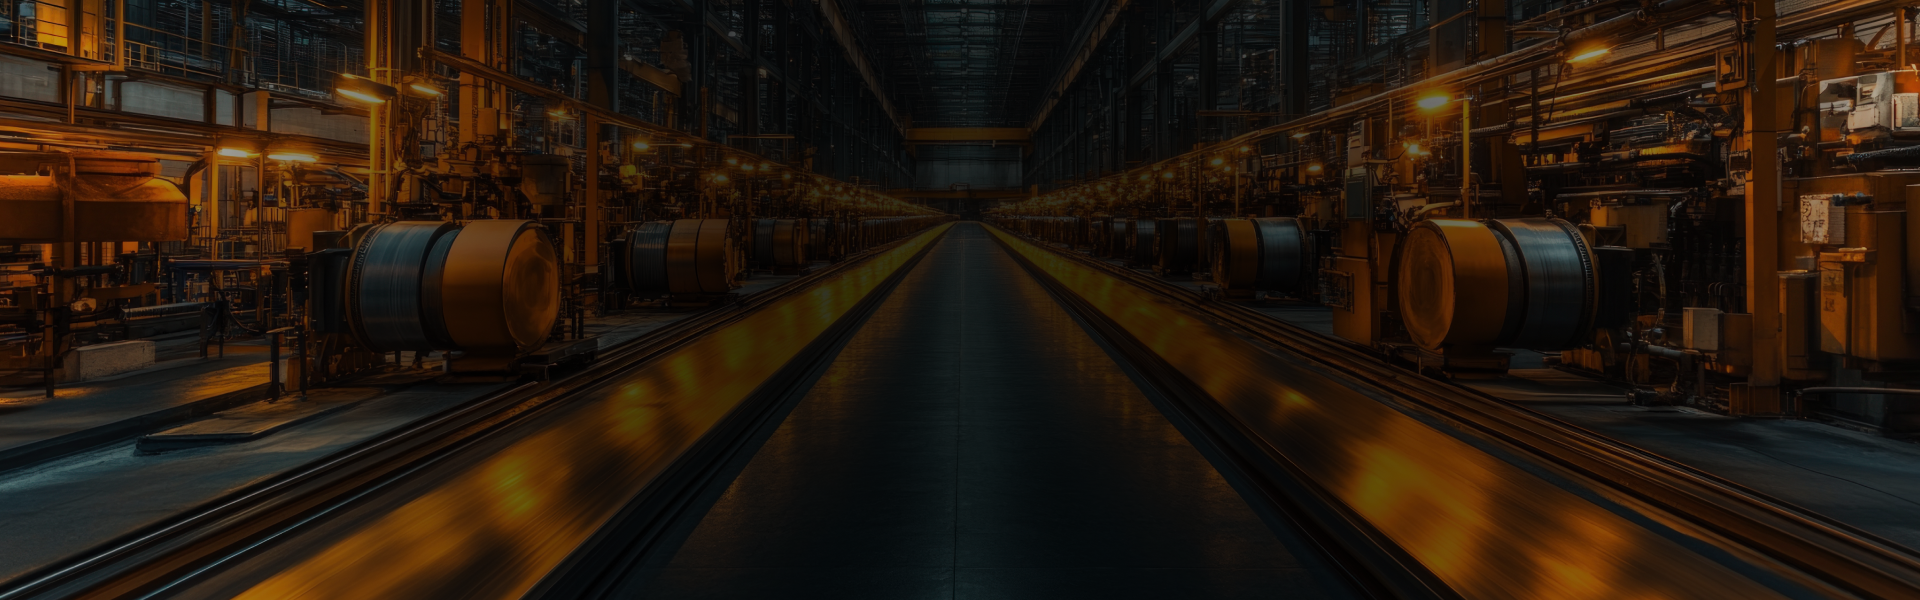
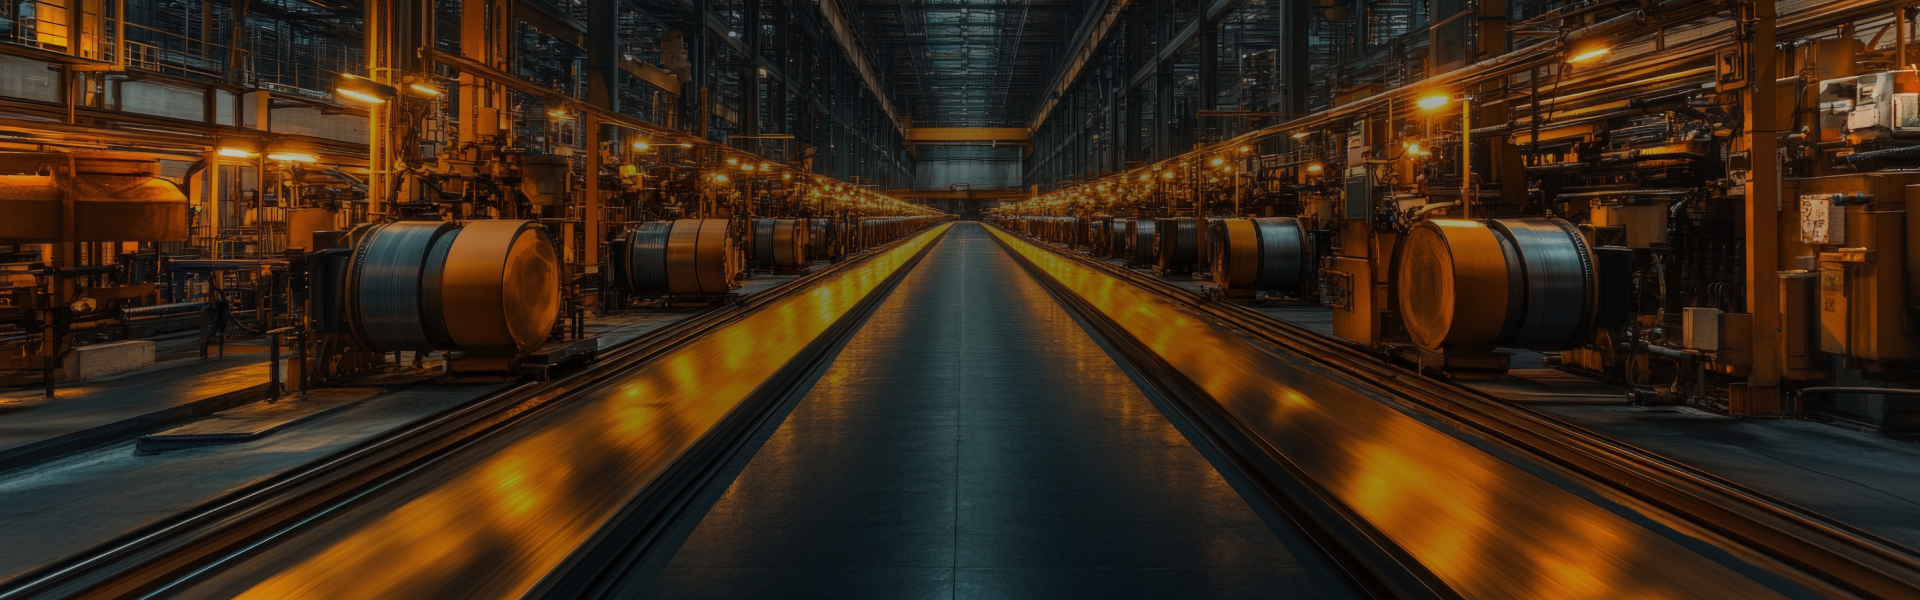
feat: Implement new Services page including hero, service grid, process sections, and associated data and assets.

diff --git a/src/pages/services.js b/src/pages/services.js
@@ -23,28 +23,39 @@ export default function Services() {
       {/* ----------------------------------------------------------------------------------
          1. HERO SECTION
          ---------------------------------------------------------------------------------- */}
-      <section className="relative w-full h-[350px] md:h-[450px] lg:h-[500px] bg-gray-900 overflow-hidden flex items-center justify-center">
-        {/* Abstract Background */}
-        <div className="absolute inset-0 overflow-hidden pointer-events-none">
-          <div className="absolute -top-24 -right-24 w-96 h-96 bg-primary/20 rounded-full blur-[100px]"></div>
-          <div className="absolute -bottom-24 -left-24 w-96 h-96 bg-orange-500/10 rounded-full blur-[100px]"></div>
+      <section className="relative w-full h-[350px] md:h-[450px] lg:h-[500px] bg-gray-900 text-white overflow-hidden flex items-center justify-center">
+        {/* Background Image */}
+        <div className="absolute inset-0 z-0">
+          <img
+            src="images/Services/Service-Page-Banner.png" // Correct path based on your public folder structure
+            alt="Products Background"
+            className="w-full h-full object-cover"
+          />
+          {/* Light Overlay for text readability */}
+          <div className="absolute inset-0 bg-black/20"></div>
+        </div>
+
+        {/* Background Patterns */}
+        <div className="absolute inset-0 opacity-10 blur-[2px] pointer-events-none z-0">
+          <div className="absolute top-0 right-0 w-[500px] h-[500px] bg-primary rounded-full blur-[120px] -translate-y-1/2 translate-x-1/2"></div>
+          <div className="absolute bottom-0 left-0 w-[500px] h-[500px] bg-orange-500 rounded-full blur-[120px] translate-y-1/2 -translate-x-1/2"></div>
         </div>
 
         <div className="relative z-10 max-w-7xl mx-auto px-6 text-center">
           <motion.h1
-            initial={{ opacity: 0, scale: 0.9 }}
-            animate={{ opacity: 1, scale: 1 }}
-            className="text-4xl md:text-7xl font-extrabold text-white mb-6 tracking-tight"
+            initial={{ opacity: 0, y: -20 }}
+            animate={{ opacity: 1, y: 0 }}
+            className="text-4xl md:text-6xl font-extrabold tracking-tight mb-6"
           >
-            Empowering <span className="text-transparent bg-clip-text bg-gradient-to-r from-blue-400 to-orange-400">Excellence</span> Through Innovation
+            Our  <span className="text-transparent bg-clip-text bg-gradient-to-r from-blue-400 to-orange-400">Services</span>
           </motion.h1>
           <motion.p
-            initial={{ opacity: 0, y: 20 }}
-            animate={{ opacity: 1, y: 0 }}
+            initial={{ opacity: 0 }}
+            animate={{ opacity: 1 }}
             transition={{ delay: 0.2 }}
-            className="text-lg md:text-xl text-gray-400 max-w-3xl mx-auto leading-relaxed"
+            className="text-lg md:text-xl text-gray-400 max-w-2xl mx-auto"
           >
-            We provide end-to-end industrial services, from advanced automation and electrical commissioning to precision calibration and complete project management.
+            End-to-end industrial automation and engineering services.
           </motion.p>
         </div>
       </section>

diff --git a/src/data/servicesData.js b/src/data/servicesData.js
@@ -19,31 +19,31 @@ const servicesData = [
     },
     {
         id: 4,
-        image: '/images/Services/Instrument Calibration.jpeg',
+        image: '/images/Services/Instrument Calibration.png',
         title: 'Instrument Calibration',
         desc: 'High-precision calibration services for all industrial instruments to ensure measurement accuracy.'
     },
     {
         id: 5,
-        image: '/images/Services/Power Distribution Systems.jpeg',
+        image: '/images/Services/Power Distribution.png',
         title: 'Power Distribution',
         desc: 'Design and implementation of robust power distribution systems for stable and safe energy delivery.'
     },
     {
         id: 6,
-        image: '/images/Services/Plant Shutdown Services.jpeg',
+        image: '/images/Services/Plant Shutdown Service.png',
         title: 'Plant Shutdown Services',
         desc: 'Efficiently managed plant shutdown and maintenance services to minimize downtime and maximize safety.'
     },
     {
         id: 7,
-        image: '/images/Services/Products Sales and After-Sale Services.jpeg',
+        image: '/images/Services/After-Sale Support.png',
         title: 'After-Sale Support',
         desc: 'Comprehensive post-installation support and technical services to keep your systems running optimally.'
     },
     {
         id: 8,
-        image: '/images/Services/Cable Management Systems.jpeg',
+        image: '/images/Services/Cable Management.png',
         title: 'Cable Management',
         desc: 'Professional engineering of heavy-duty cable tray systems and routing for organized facility wiring.'
     }
